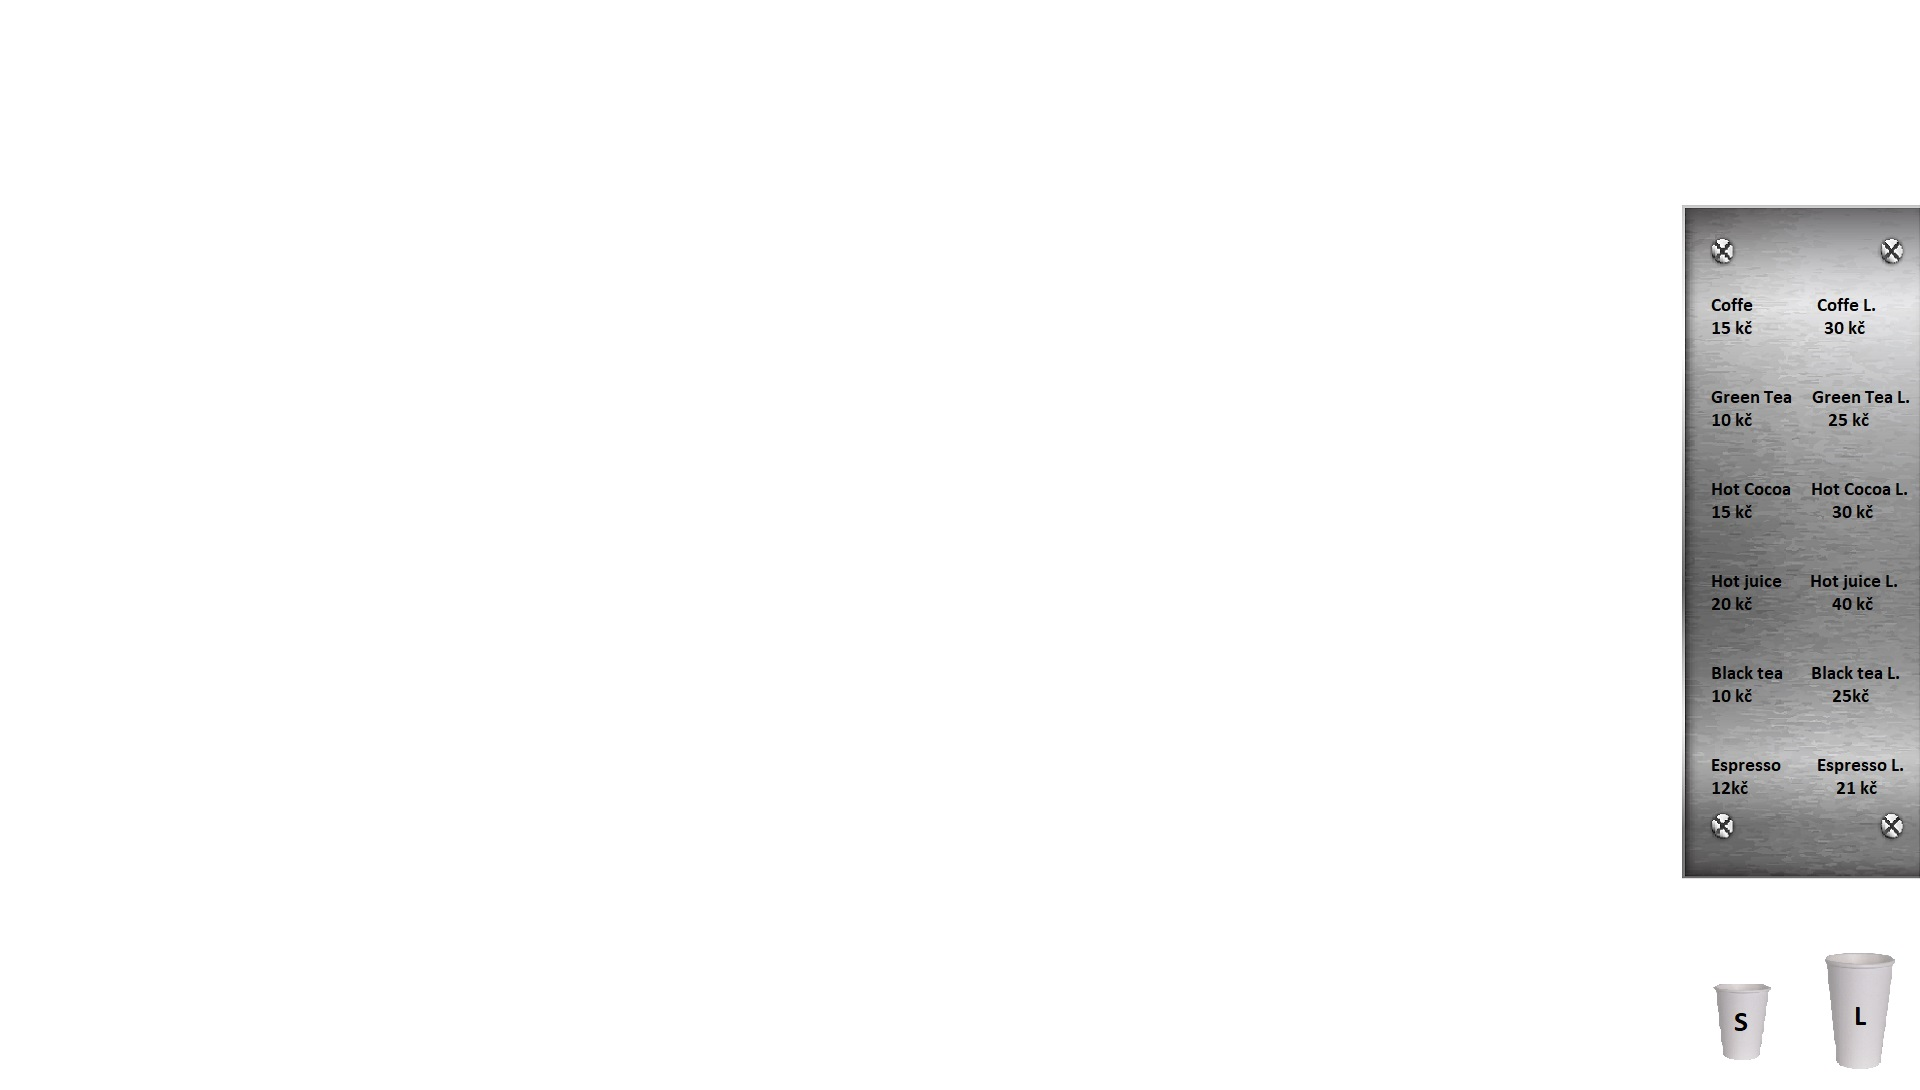
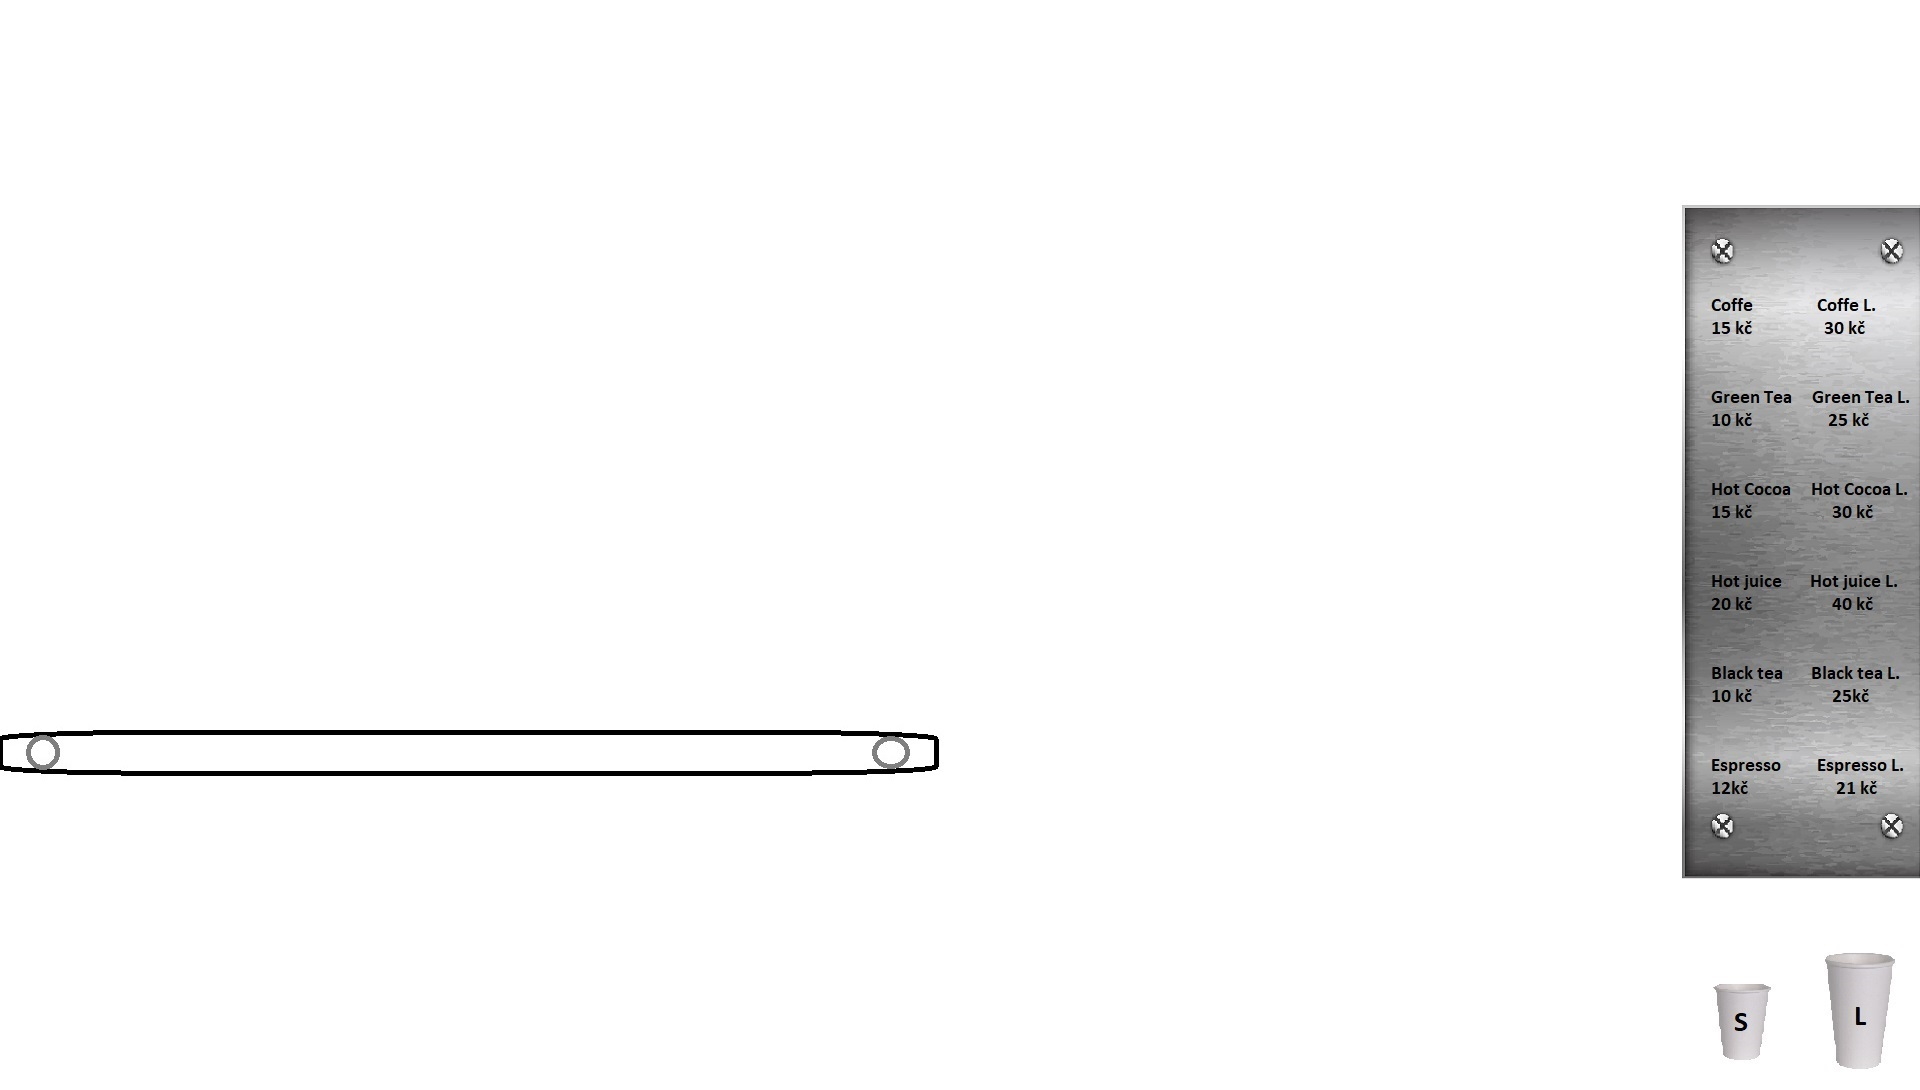
cup summoning done, start of sending.

Changed region(s): [[0.0, 0.655, 0.5, 0.7174]]

diff --git a/main.py b/main.py
@@ -114,14 +114,23 @@ while True:
             showLcup = True
     
     if showLcup:
-        window.blit(Lcup_load, (0, 0))
+        Lcup = window.blit(Lcup_load, (700, 390))
         
     if event.type == pygame.MOUSEBUTTONDOWN:
         mpos = pygame.mouse.get_pos()
         if 1715 < mpos[0] < 1765 and 892 < mpos[1] < 942:
             showScup = True
     if showScup:
-        window.blit(Scup_load, (0, 0))
+         window.blit(Scup_load, (700, 500))
+        
+        
+#def sending_cup:
+    
+    
+    
+    
+    
+        
         
           
  
